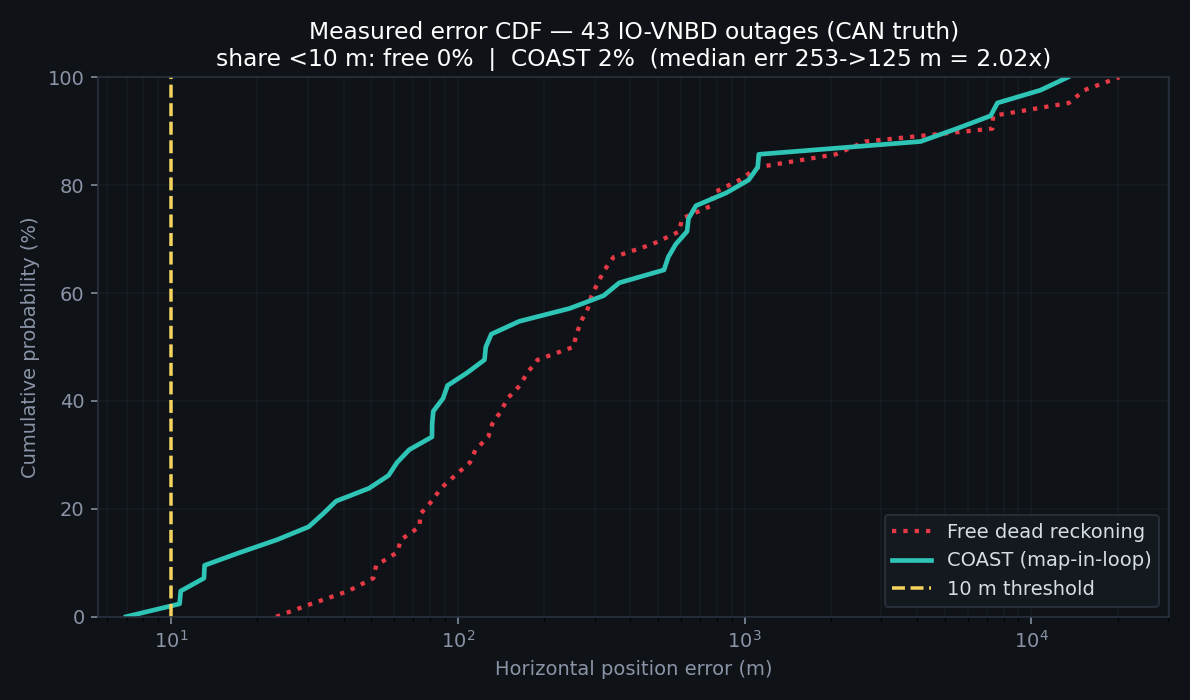
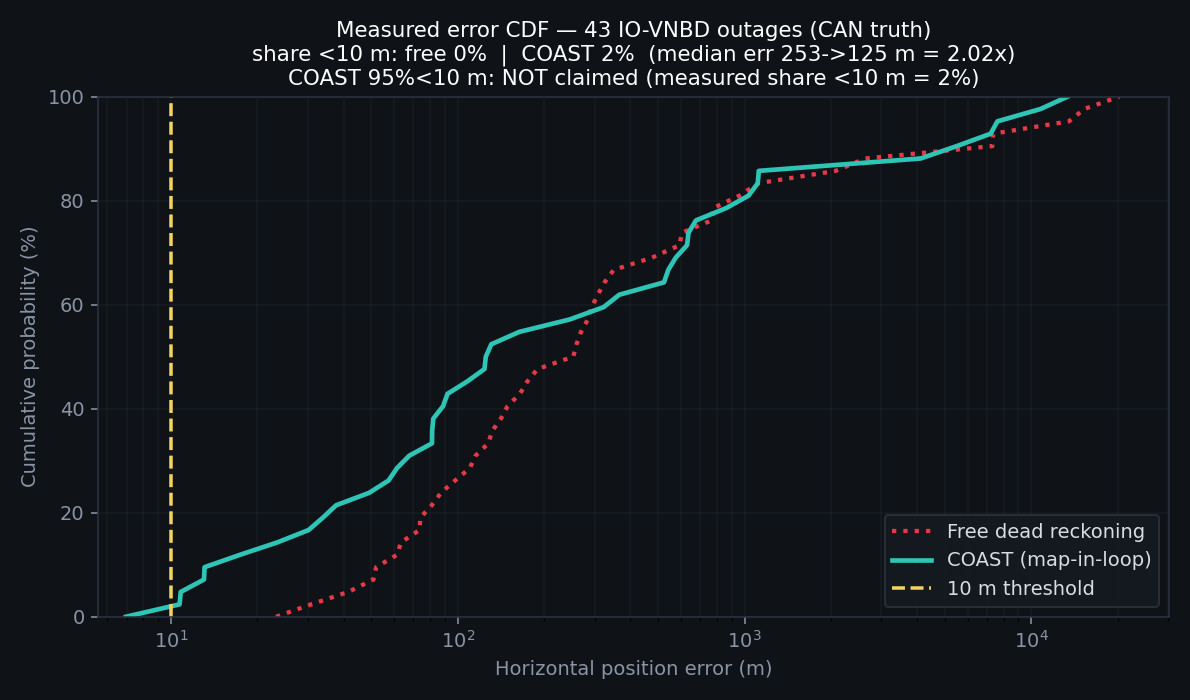
Harden lab.demo CDF figure: measured mapfilter only, honest 95%<10m label.
Refresh figures/cdf_error.png and _reference after verifying <=90s wall time.

diff --git a/lab/eval/demo_plots.py b/lab/eval/demo_plots.py
@@ -256,12 +256,19 @@ def cdf_error(out_dir: Path) -> dict | None:
     ax.set_ylabel("Cumulative probability (%)", color="#8a94a6")
     pct_free_10 = 100.0 * float(np.mean(free < 10.0))
     pct_coast_10 = 100.0 * float(np.mean(coast < 10.0))
+    # Honesty: never imply a 95%<10 m pass we did not measure.
+    gate_note = (
+        f"COAST 95%<10 m: NOT claimed (measured share <10 m = {pct_coast_10:.0f}%)"
+        if pct_coast_10 < 95.0
+        else f"COAST share <10 m = {pct_coast_10:.0f}%"
+    )
     ax.set_title(
         f"Measured error CDF — {len(rows)} IO-VNBD outages (CAN truth)\n"
         f"share <10 m: free {pct_free_10:.0f}%  |  COAST {pct_coast_10:.0f}%  "
         f"(median err {junc['free_median_error_m']:.0f}->"
-        f"{junc['pf_median_error_m']:.0f} m = {junc['improvement_x']:.2f}x)",
-        color="white", fontsize=12,
+        f"{junc['pf_median_error_m']:.0f} m = {junc['improvement_x']:.2f}x)\n"
+        f"{gate_note}",
+        color="white", fontsize=11,
     )
     ax.tick_params(colors="#8a94a6")
     for s in ax.spines.values():

diff --git a/lab/demo.py b/lab/demo.py
@@ -194,8 +194,20 @@ def _write_figures() -> dict:
         p.unlink()
 
     meta = dp.write_all_figures(_FIGURES)
-    for name, path in meta.get("paths", {}).items():
+    paths = meta.get("paths") or {}
+    for name, path in paths.items():
         print(f"      wrote {path}")
+    cdf_path = Path(paths.get("cdf_error", _FIGURES / "cdf_error.png"))
+    if not cdf_path.is_file():
+        raise RuntimeError(
+            "cdf_error.png missing after write_all_figures — "
+            "screening Figure B requires measured mapfilter CDF"
+        )
+    if meta.get("cdf") is None:
+        raise RuntimeError(
+            "CDF metadata empty — mapfilter report had no measured errors; "
+            "refusing to invent CDF points"
+        )
     print()
     return meta
 
